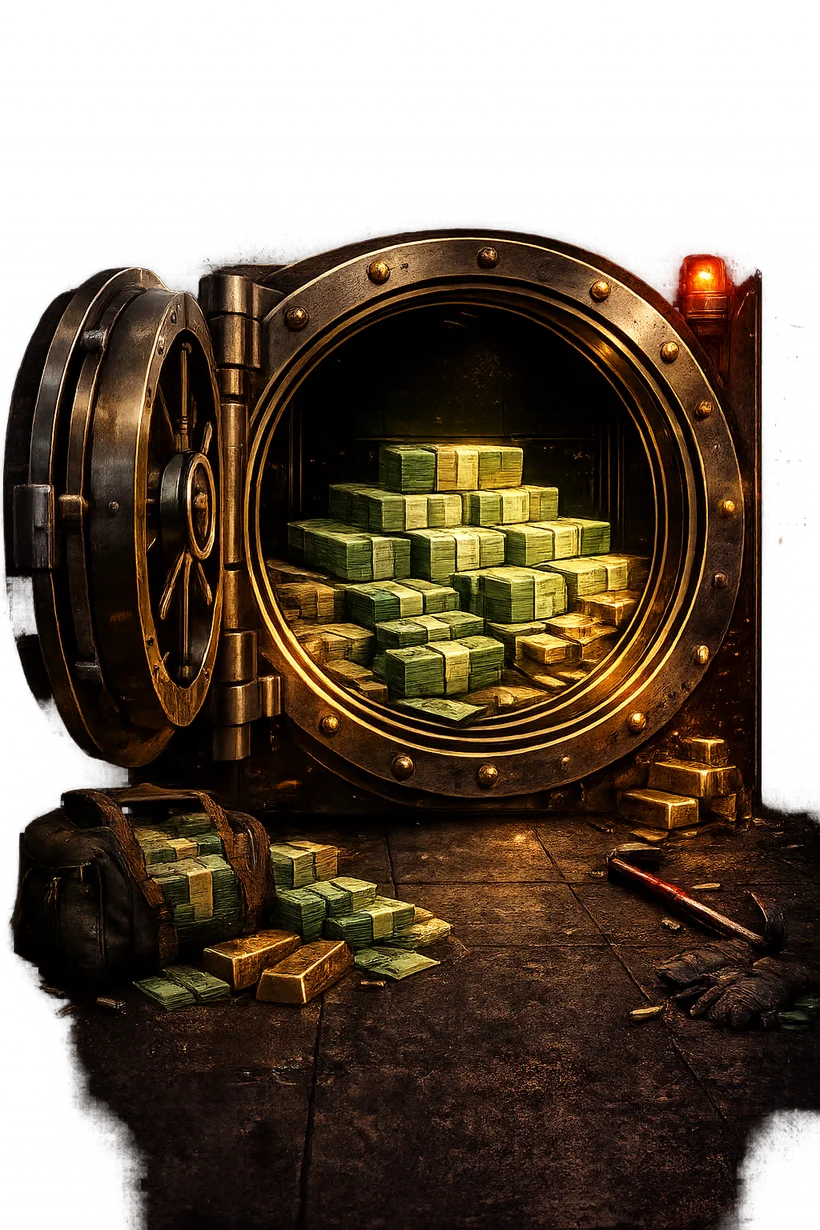
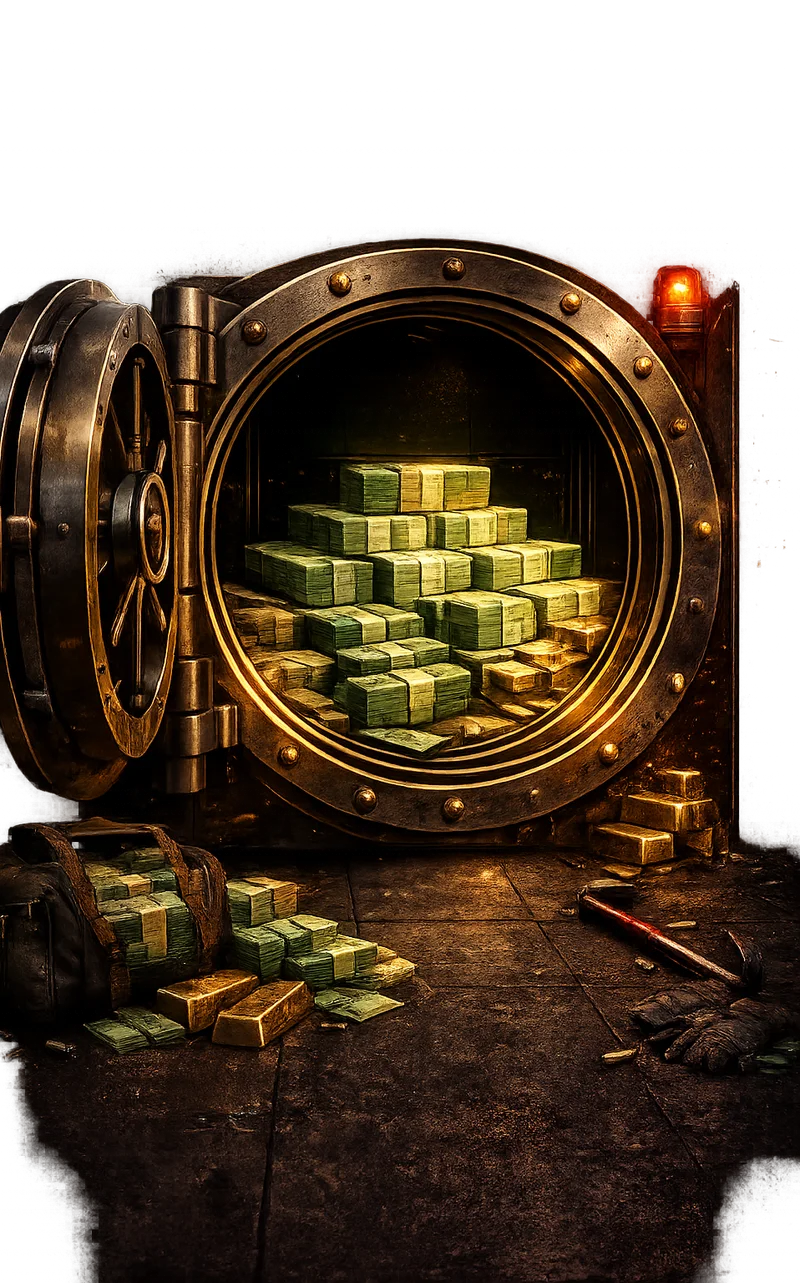
Center the vault opening + amount; bigger primary button
- Re-crop the vault render so the opening/cash sits dead-center, then frame it
  centered (object-position 42%) so the amount reads centered over the money
- Move the readout to sit nicely in the upper-middle of the opening
- Enlarge the primary green button (taller + bigger text) to match the input

diff --git a/src/app/globals.css b/src/app/globals.css
@@ -185,7 +185,7 @@ input { font-family: inherit; }
 .vault-scene img {
   width: 100%; height: 100%;
   object-fit: cover;            /* fill the area — the vault reads BIG */
-  object-position: center 30%;
+  object-position: center 42%;  /* opening is centered (image re-cropped) */
   display: block;
   user-select: none; -webkit-user-drag: none;
 }
@@ -203,7 +203,7 @@ input { font-family: inherit; }
 
 .vault-readout {
   position: absolute;
-  left: 0; right: 0; top: 30%;
+  left: 0; right: 0; top: 27%;
   z-index: 4;
   text-align: center;
   text-shadow: 0 2px 12px rgba(0,0,0,0.95);
@@ -271,8 +271,8 @@ input { font-family: inherit; }
 /* ----------------------------------------------------------- stash btn */
 .stash-btn {
   width: 100%;
-  border-radius: 16px;
-  padding: 14px 12px;
+  border-radius: 18px;
+  padding: 20px 12px;
   font-weight: 900;
   letter-spacing: 1px;
   position: relative;
@@ -285,8 +285,8 @@ input { font-family: inherit; }
   animation: stashPulse 1.8s ease-in-out infinite;
 }
 .stash-btn:active { transform: scale(0.975); }
-.stash-btn .big { font-size: 27px; line-height: 1; display: block; }
-.stash-btn .sub { font-size: 11px; letter-spacing: 2px; opacity: .8; display: block; margin-top: 3px; }
+.stash-btn .big { font-size: 30px; line-height: 1; display: block; }
+.stash-btn .sub { font-size: 11px; letter-spacing: 2px; opacity: .8; display: block; margin-top: 4px; }
 @keyframes stashPulse {
   0%,100% { box-shadow: 0 10px 30px rgba(37,255,122,0.35), inset 0 1px 0 rgba(255,255,255,0.4); }
   50% { box-shadow: 0 10px 44px rgba(37,255,122,0.7), inset 0 1px 0 rgba(255,255,255,0.5); }